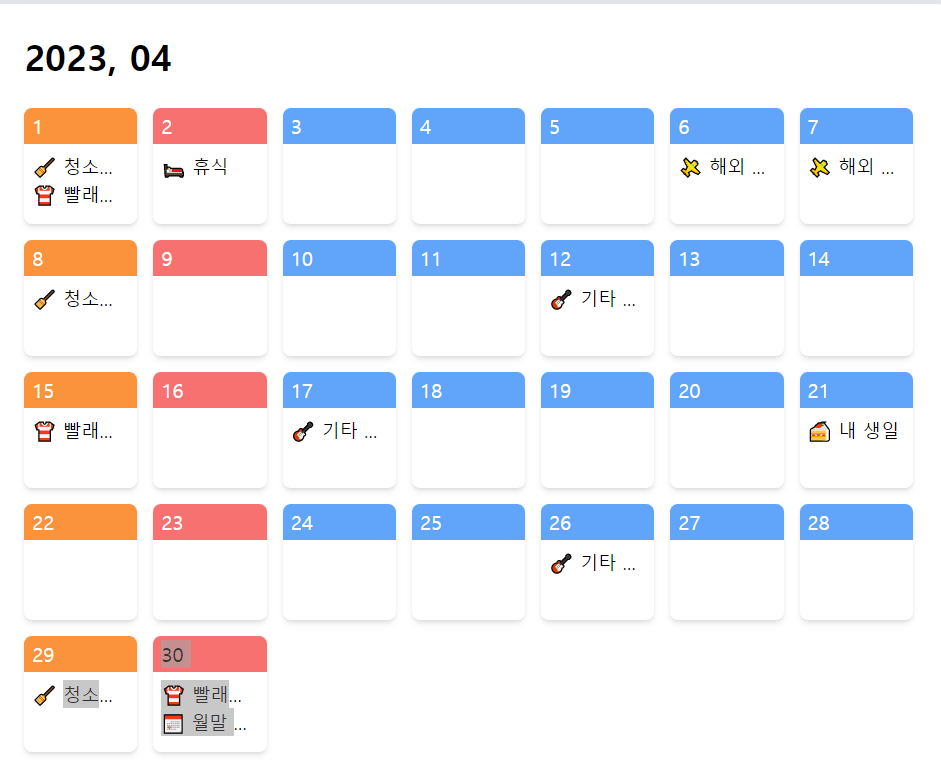
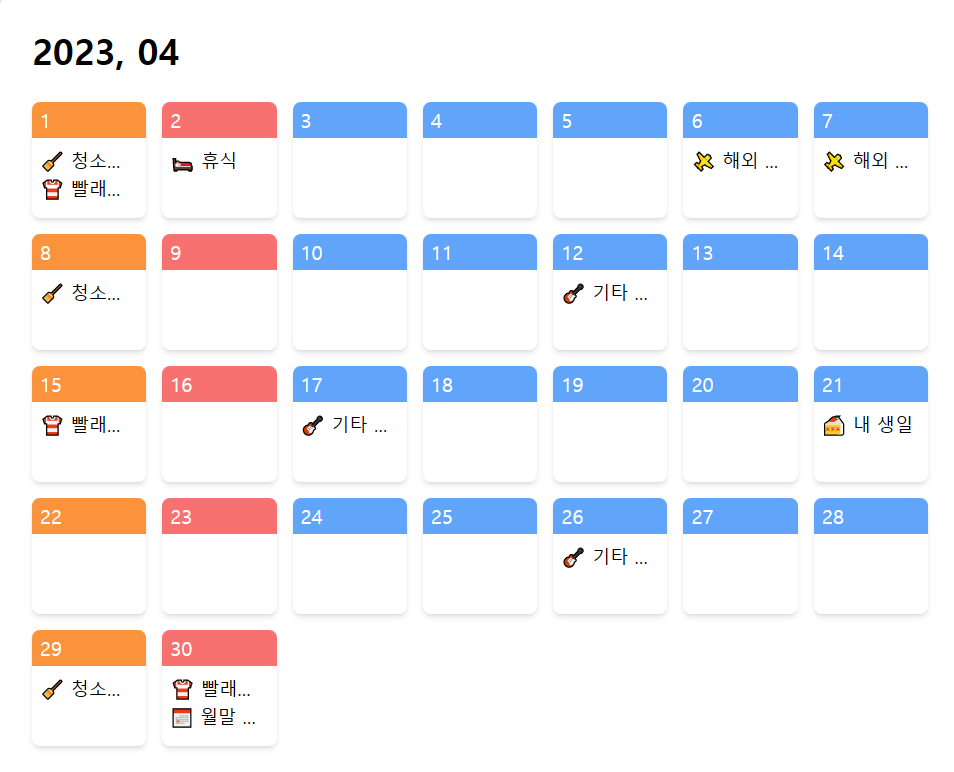
Router

diff --git a/src/components/PortfolioCard.jsx b/src/components/PortfolioCard.jsx
@@ -1,4 +1,4 @@
-import IMG1 from "../images/Calendar.PNG";
+import { Link } from "react-router-dom";
 
 // const PortfolioCard = () => {
 //   return (
@@ -14,32 +14,23 @@ import IMG1 from "../images/Calendar.PNG";
 // };
 function PortfolioCard(props) {
   return (
-    <li className="inline-block bg-white shadow-md font-Ngothic border-4 hover:border-purple-400 ">
-      <div className=" font-bold text-[22px] flex justify-between">
+    <li className="inline-block w-[395px] bg-white shadow-md font-Ngothic border-[3px] hover:border-purple-400 ">
+      <div className=" font-bold text-[22px] flex justify-between px-3 ">
         {props.title}
-        <button>+</button>
+        <Link
+          to={`/a/${props.index}?title=${props.title}&img=${props.img}&script=${props.script}`}
+        >
+          <button>+</button>
+        </Link>
       </div>
-
       <div>
         <img
-          className="h-[320px] object-cover "
-          src={props.img}
-          alt={props.img}
+          className="w-full h-[320px] object-cover border-y-2"
+          src={`${process.env.PUBLIC_URL}/${props.img}`}
+          alt="project"
         />{" "}
-        {/* <img className=" object-cover" src={IMG1} alt="1" /> */}
-        {/* <ul>
-          {props.img.map((v, i) => {
-            return <img src={v} alt={v} />;
-          })}
-        </ul> */}
       </div>
-      <div>
-        <ul className=" p-2 text-[18px] min-h-[160px]">
-          {props.script.map((v, i) => {
-            return <li className="truncate">{v}</li>;
-          })}
-        </ul>
-      </div>
+      <div className="p-2 text-[18px] min-h-[160px]">{props.script}</div>
     </li>
   );
 }

diff --git a/src/components/Header.jsx b/src/components/Header.jsx
@@ -1,5 +1,5 @@
-// import Logo from "../images/pubg-logo-battlegrounds.png";
 import HEADER from "../images/f8eba5_460d0bdab99f487188a17916c22a9abe_mv2.webp";
+import { Link } from "react-router-dom";
 
 const Header = () => {
   return (
@@ -11,16 +11,17 @@ const Header = () => {
       />
       <div className="max-w-screen-2xl mx-auto  h-full flex justify-between items-center relative top-[50%] translate-y-[-50%] ">
         {/* <div>PPisland's Portfolio</div> */}
-
         <div>
           {/* <img
             className="w-34 h:8 md:h-18  object-cover"
             src={Logo}
             alt="logo"
           /> */}
-          <div className="w-34 h-8 md:h-18 text-2xl font-bold text-white">
-            Portfolio
-          </div>
+          <Link to="/">
+            <button className="w-34 h-8 md:h-18 text-2xl font-bold text-white">
+              Portfolio
+            </button>
+          </Link>
         </div>
         <ul className="flex gap-2 md:gap-6 sm:text-sm text-xs md:text-base ">
           <li className="bg-indigo-300 bg-opacity-50 btn-style">Introduce</li>

diff --git a/src/App.jsx b/src/App.jsx
@@ -1,22 +1,23 @@
+import { BrowserRouter, Routes, Route } from "react-router-dom";
+
 import Header from "./components/Header";
-import Introduce from "./components/Introduce";
-import Portfolio from "./components/Portfolio";
-import ContactMe from "./components/ContactMe";
 import Footer from "./components/Footer";
+import Main from "./pages/main";
+import Project from "./pages/Project";
 
 function App() {
-  //리턴 밖에선 이렇게 주석작성
-
   return (
-    <div className="bg-[#131313] min-h-screen font-display">
-      <Header></Header>
-      <main>
-        <Introduce></Introduce>
-        <Portfolio></Portfolio>
-        <ContactMe></ContactMe>
-      </main>
-      <Footer></Footer>
-    </div>
+    <BrowserRouter>
+      <div className="bg-[#131313] min-h-screen font-display flex flex-col">
+        <Header />
+        <Routes>
+          <Route path="/" element={<Main />} />
+          <Route path="/a/:projectId" element={<Project />} />
+        </Routes>
+
+        <Footer />
+      </div>
+    </BrowserRouter>
   );
 }
 

diff --git a/src/components/Portfolio.jsx b/src/components/Portfolio.jsx
@@ -4,15 +4,16 @@ const Portfolio = () => {
   return (
     // <ul className="bg-[#f6f6f6] max-w-screen-2xl mx-auto grid grid-cols-1 sm:grid-cols-1 md:grid-cols-2 lg:grid-cols-3 gap-16 justify-items-center py-8 ">
     //   {/* object-cover */}
-
     // </ul>
+
     <div className="bg-[#f6f6f6] max-w-screen-2xl mx-auto p-8">
-      <ul className="grid grid-cols-3 gap-6">
+      <ul className="grid grid-cols-3 gap-6 justify-items-center">
         {scriptData.map((v, i) => {
           return (
             <PortfolioCard
               key={i}
               title={v.title}
+              index={i}
               img={v.img}
               script={v.script}
             />

diff --git a/src/pages/Project.jsx b/src/pages/Project.jsx
@@ -1,0 +1,22 @@
+import { useSearchParams } from "react-router-dom";
+
+function Project() {
+  const [searchParams] = useSearchParams();
+
+  const title = searchParams.get("title");
+  const script = searchParams.get("script");
+  const image = searchParams.get("img");
+
+  return (
+    <div className="bg-white max-w-screen-2xl mx-auto w-full grow flex flex-col justify-center items-center py-8">
+      <div className="">
+        {/* 827x532 */}
+        <img src={`${process.env.PUBLIC_URL}/${image}`} alt="project" />
+      </div>
+      <div>{title}</div>
+      <div>{script}</div>
+    </div>
+  );
+}
+
+export default Project;

diff --git a/src/pages/main.jsx b/src/pages/main.jsx
@@ -1,0 +1,15 @@
+import ContactMe from "../components/ContactMe";
+import Introduce from "../components/Introduce";
+import Portfolio from "../components/Portfolio";
+
+const Main = () => {
+  return (
+    <main>
+      <Introduce />
+      <Portfolio />
+      <ContactMe />
+    </main>
+  );
+};
+
+export default Main;
